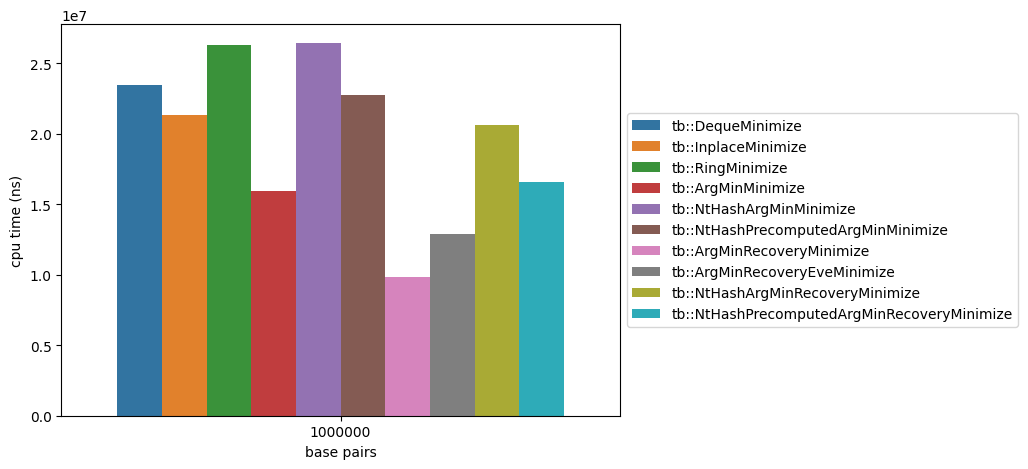
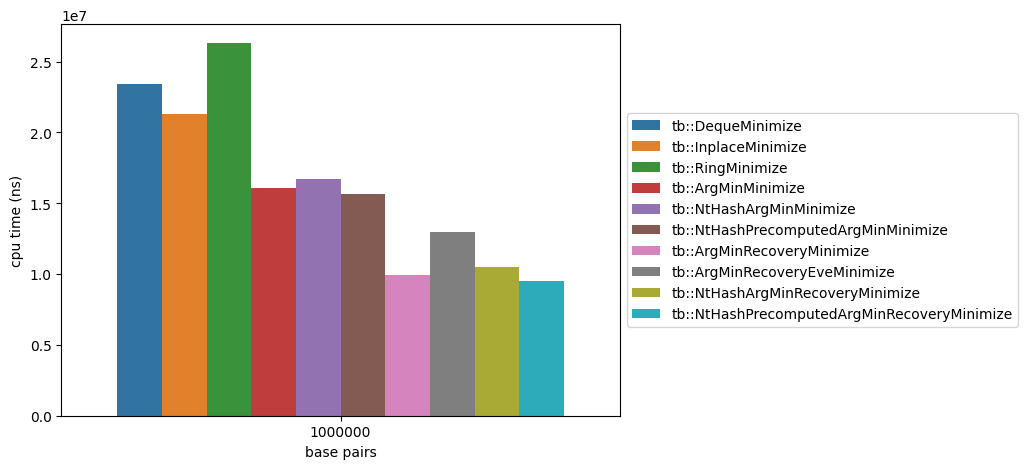
nthash: bug fix

diff --git a/include/tb/nthash.hpp b/include/tb/nthash.hpp
@@ -55,7 +55,7 @@ inline constexpr auto srol =
 
 namespace detail {
 
-inline constexpr auto kPrecomputed = [] {
+inline constexpr auto kPrecomputed = [] consteval {
   std::array<std::array<std::uint64_t, 4>, 32> dst;
   for (std::size_t i = 0; i < 32; ++i) {
     for (std::size_t j = 0; j < kNtHashSeeds.size(); ++j) {
@@ -81,7 +81,7 @@ inline constexpr auto nthash =
         }
       };
 
-      return srol(prev, 1) ^ srol_out(base_out, k) ^ kNtHashSeeds[base_in];
+      return srol(prev) ^ srol_out(base_out, k) ^ kNtHashSeeds[base_in];
     };
 
 }  // namespace tb

diff --git a/README.md b/README.md
@@ -38,17 +38,17 @@ cmake --build build
 ### Figures
 | function                                    |   avg ns per bp |
 |:--------------------------------------------|----------------:|
-| tb::NaiveMinimize                           |       241.547   |
-| tb::NtHashArgMinMinimize                    |        26.454   |
-| tb::RingMinimize                            |        26.2809  |
-| tb::DequeMinimize                           |        23.495   |
-| tb::NtHashPrecomputedArgMinMinimize         |        22.7503  |
-| tb::InplaceMinimize                         |        21.313   |
-| tb::NtHashArgMinRecoveryMinimize            |        20.6429  |
-| tb::NtHashPrecomputedArgMinRecoveryMinimize |        16.5655  |
-| tb::ArgMinMinimize                          |        15.9429  |
-| tb::ArgMinRecoveryEveMinimize               |        12.8927  |
-| tb::ArgMinRecoveryMinimize                  |         9.81566 |
+| tb::NaiveMinimize                           |       241.507   |
+| tb::RingMinimize                            |        26.3142  |
+| tb::DequeMinimize                           |        23.426   |
+| tb::InplaceMinimize                         |        21.2771  |
+| tb::NtHashArgMinMinimize                    |        16.6965  |
+| tb::ArgMinMinimize                          |        16.0488  |
+| tb::NtHashPrecomputedArgMinMinimize         |        15.6862  |
+| tb::ArgMinRecoveryEveMinimize               |        12.9594  |
+| tb::NtHashArgMinRecoveryMinimize            |        10.5036  |
+| tb::ArgMinRecoveryMinimize                  |         9.93717 |
+| tb::NtHashPrecomputedArgMinRecoveryMinimize |         9.50983 |
 ![](misc/perf.png)
 
 ## Reference
